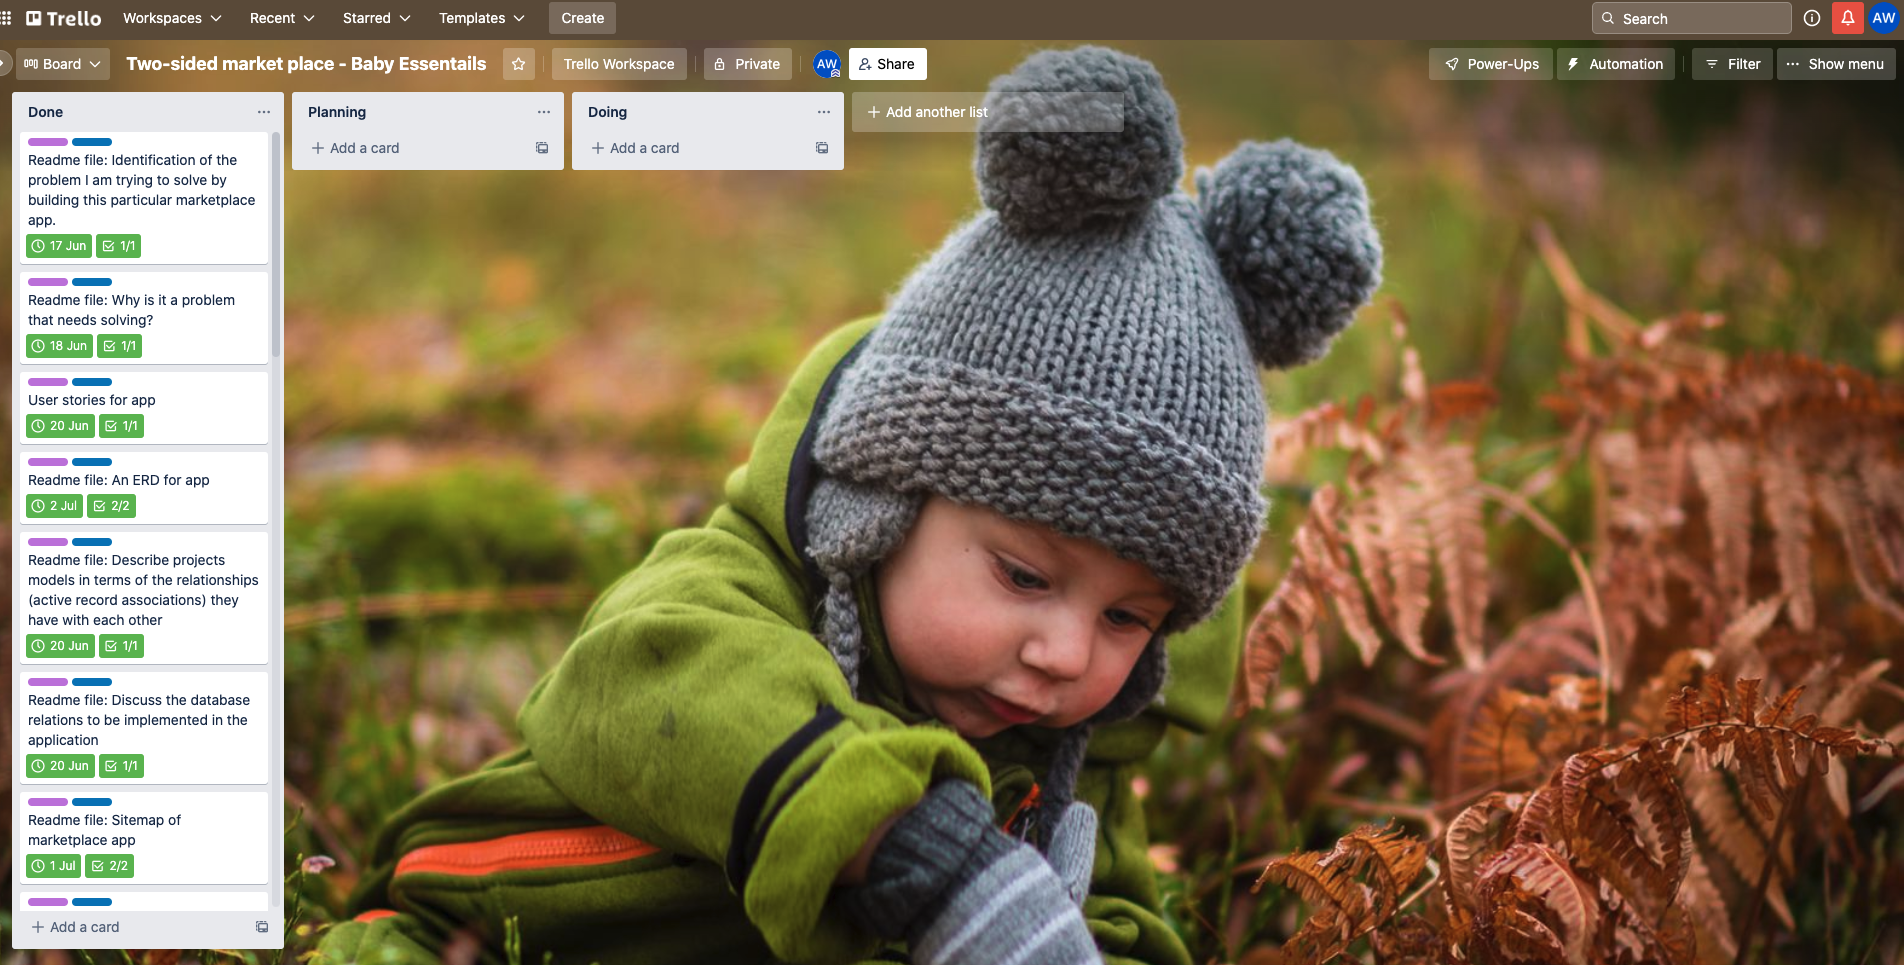
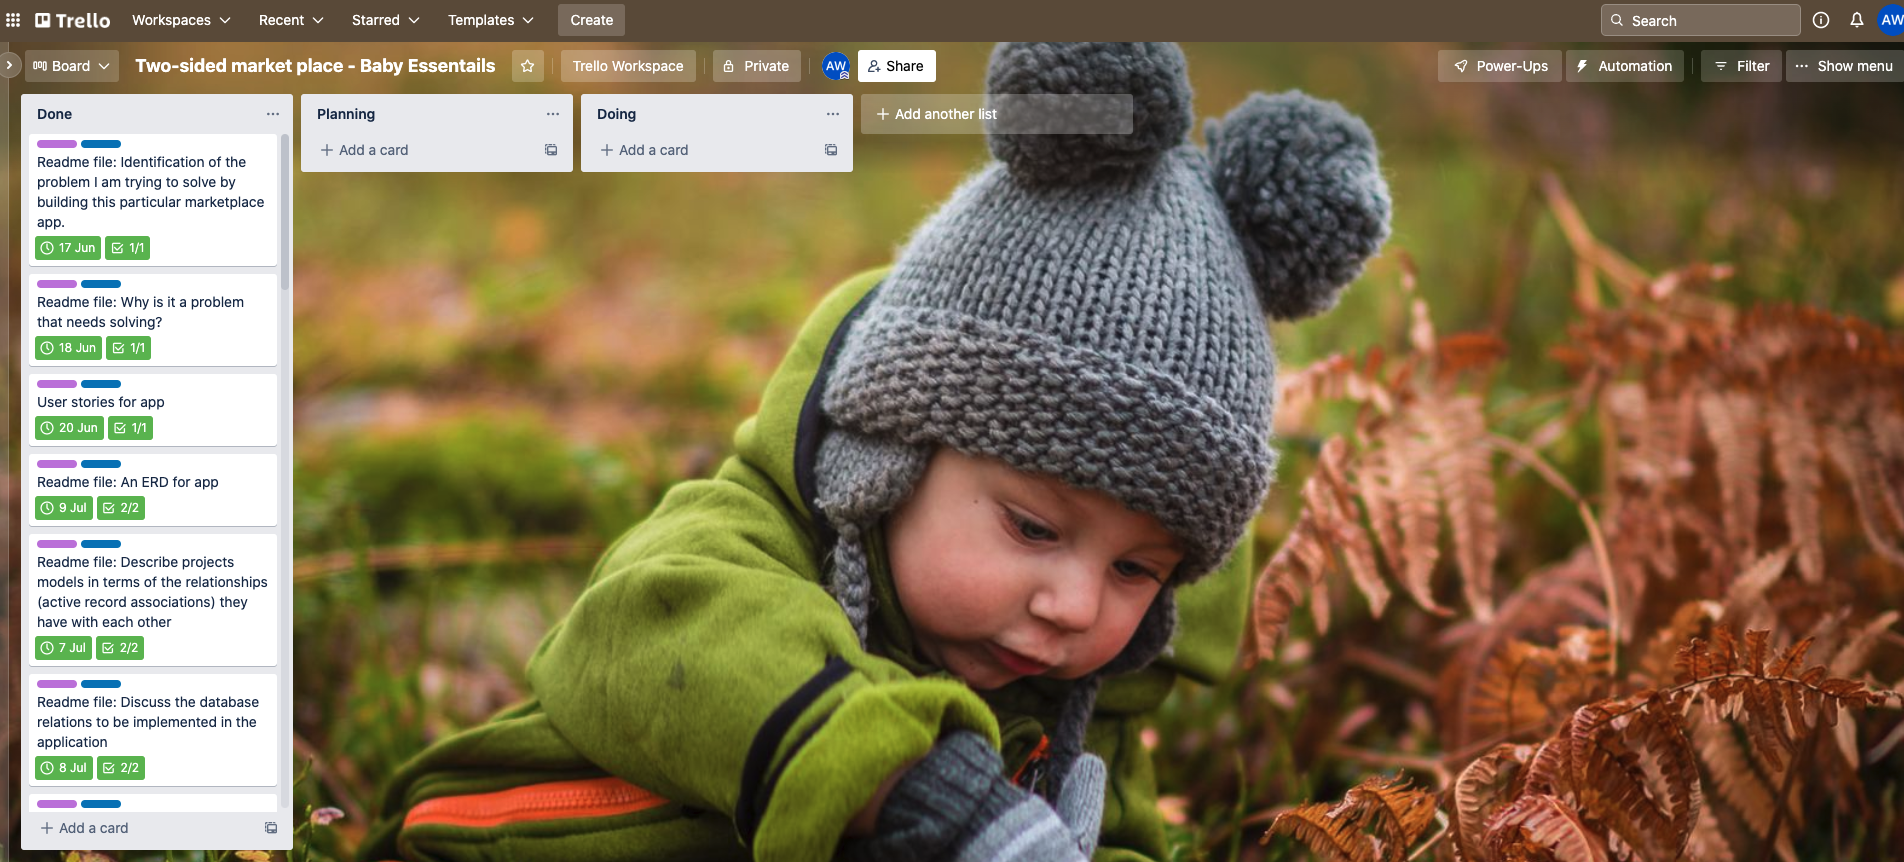
updated Reademe file for Trello

diff --git a/README.md b/README.md
@@ -39,7 +39,7 @@ The purpose of this two-sided marketplace application is to help parents to buy 
 
 11. Using gem of Omniauth-Facebook: users can use their Facebook account to log into the application if they don't want to sign up with the application
 
-12. Applying bootstrap-scss to the application. I used Jumbotron and Navbar for the home page, and Card for viewing the listing page. 
+12. Applying bootstrap-scss to the application. I used Jumbotron and Navbar for the webpages, and Card for viewing the listing page. 
 
 13. Creating Profile page: users can view their profile and what they bought and sold in the past
 
@@ -217,12 +217,13 @@ belongs_to :category
 ![ERDBabyEssentails](./app/assets/images/ERD.png)
 
 # R20. Describe the way tasks are allocated and tracked in your project
-I used Trello to track and allocate my tasks in my project. I put them into small tasks and built a card for each of them. I labelled them into different colours for three different types of tasks: Tasks before application development, important tasks, and Readme documentation. I set up checklist for each Trello card and also the timeframe for each task. I put my cards into three stages: planning, doing, and done. Each task was moved from planning, to doing, and then done stages. 
+I used Trello to track and allocate my tasks in my project. I divided my project into small tasks and built a card for each task. I labelled each card into different colours for three different types of tasks: Tasks before application development, important tasks, and Readme documentation. In the Trello cards, I set up a checklist for what I should do for the task and ticked the box once I completed them. I also setup a timeframe for the task, which helped me to have better time management on the project. For example, I might spend too much time for one small task instead of moving my focus on to other important tasks. All my cards would go through planning stage, doing stage, and finally done stage. This helped me to understand what I should do now and what it is the next task. I also could review what I have done in the past. 
+
 
 Please see the details what I have done for my project in my Trello cards.
 [BabyEssentials_Trello](https://trello.com/b/shJmPj7B/two-sided-market-place-baby-essentails)
 
 Screenshot of my Trello
-![TrelloBabyEssentails](app/assets/images/Trello.png)
+![TrelloBabyEssentails](./app/assets/images/Trello.png)
 
 
